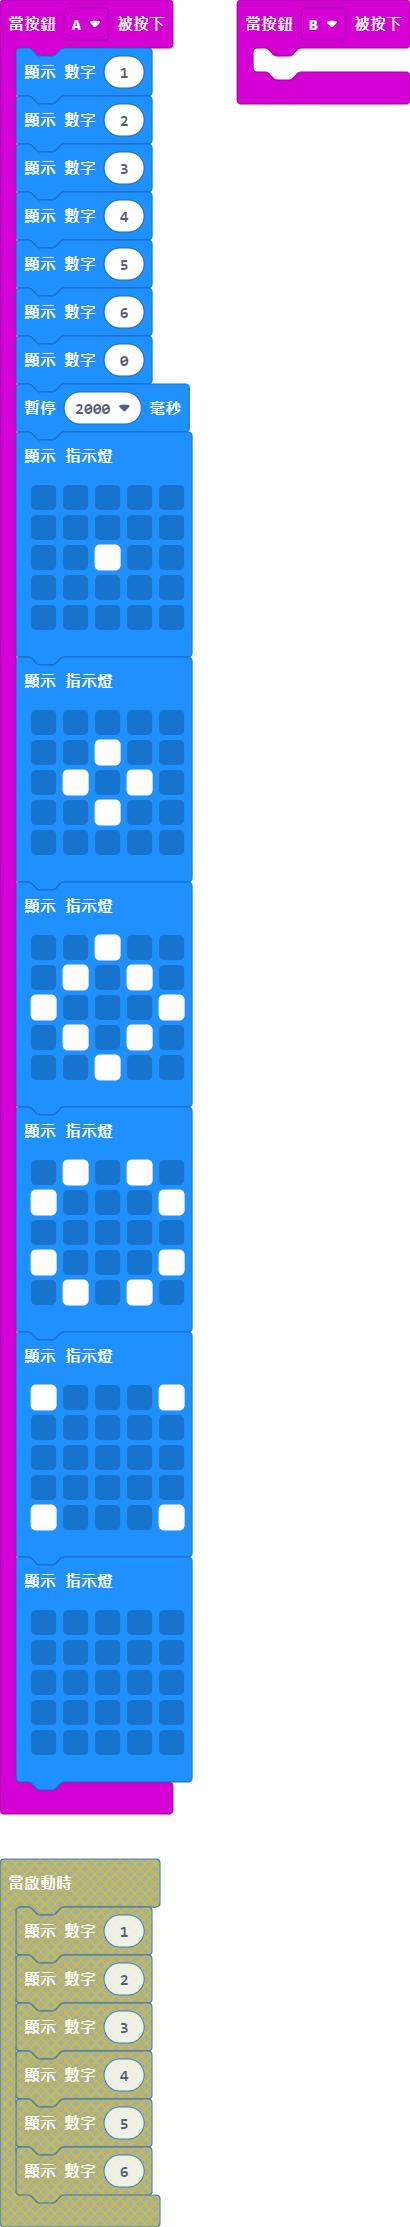
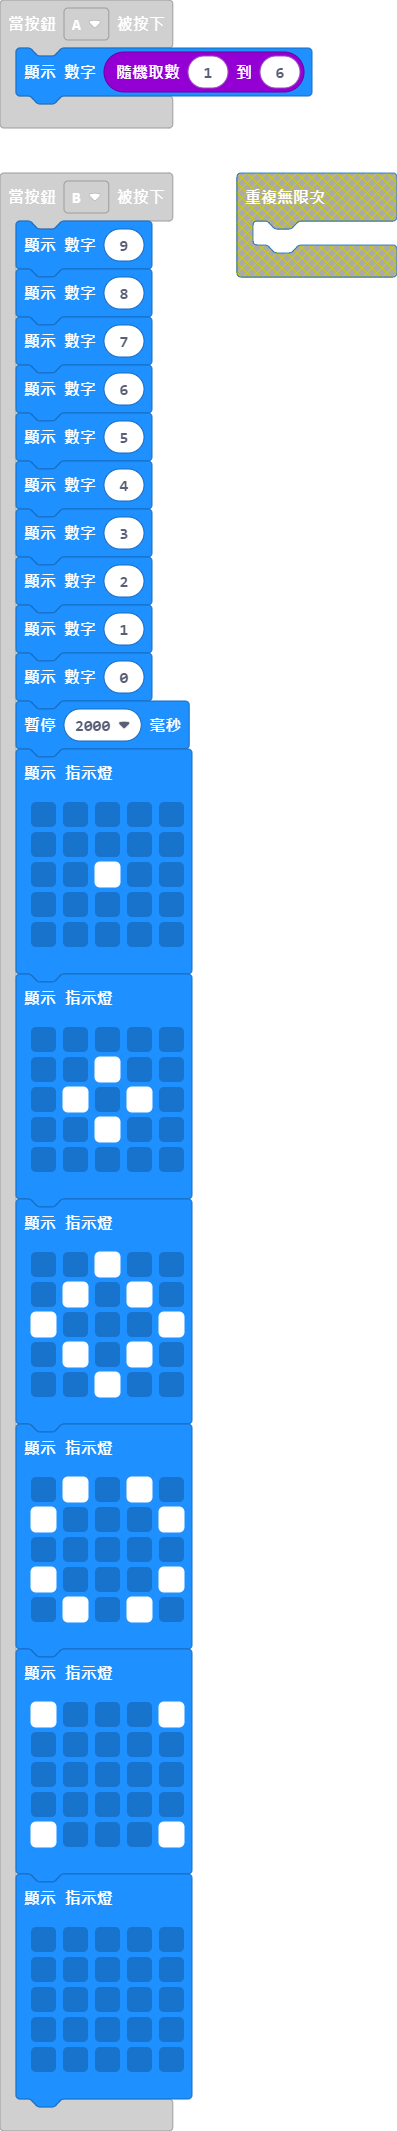
更新 main.blocks, main.ts

diff --git a/main.ts b/main.ts
@@ -1,10 +1,16 @@
 input.onButtonPressed(Button.A, function () {
-    basic.showNumber(1)
-    basic.showNumber(2)
-    basic.showNumber(3)
-    basic.showNumber(4)
-    basic.showNumber(5)
+    basic.showNumber(randint(1, 6))
+})
+input.onButtonPressed(Button.B, function () {
+    basic.showNumber(9)
+    basic.showNumber(8)
+    basic.showNumber(7)
     basic.showNumber(6)
+    basic.showNumber(5)
+    basic.showNumber(4)
+    basic.showNumber(3)
+    basic.showNumber(2)
+    basic.showNumber(1)
     basic.showNumber(0)
     basic.pause(2000)
     basic.showLeds(`
@@ -49,10 +55,4 @@ input.onButtonPressed(Button.A, function () {
         . . . . .
         . . . . .
         `)
-})
-input.onButtonPressed(Button.B, function () {
-	
-})
-basic.forever(function () {
-	
 })
